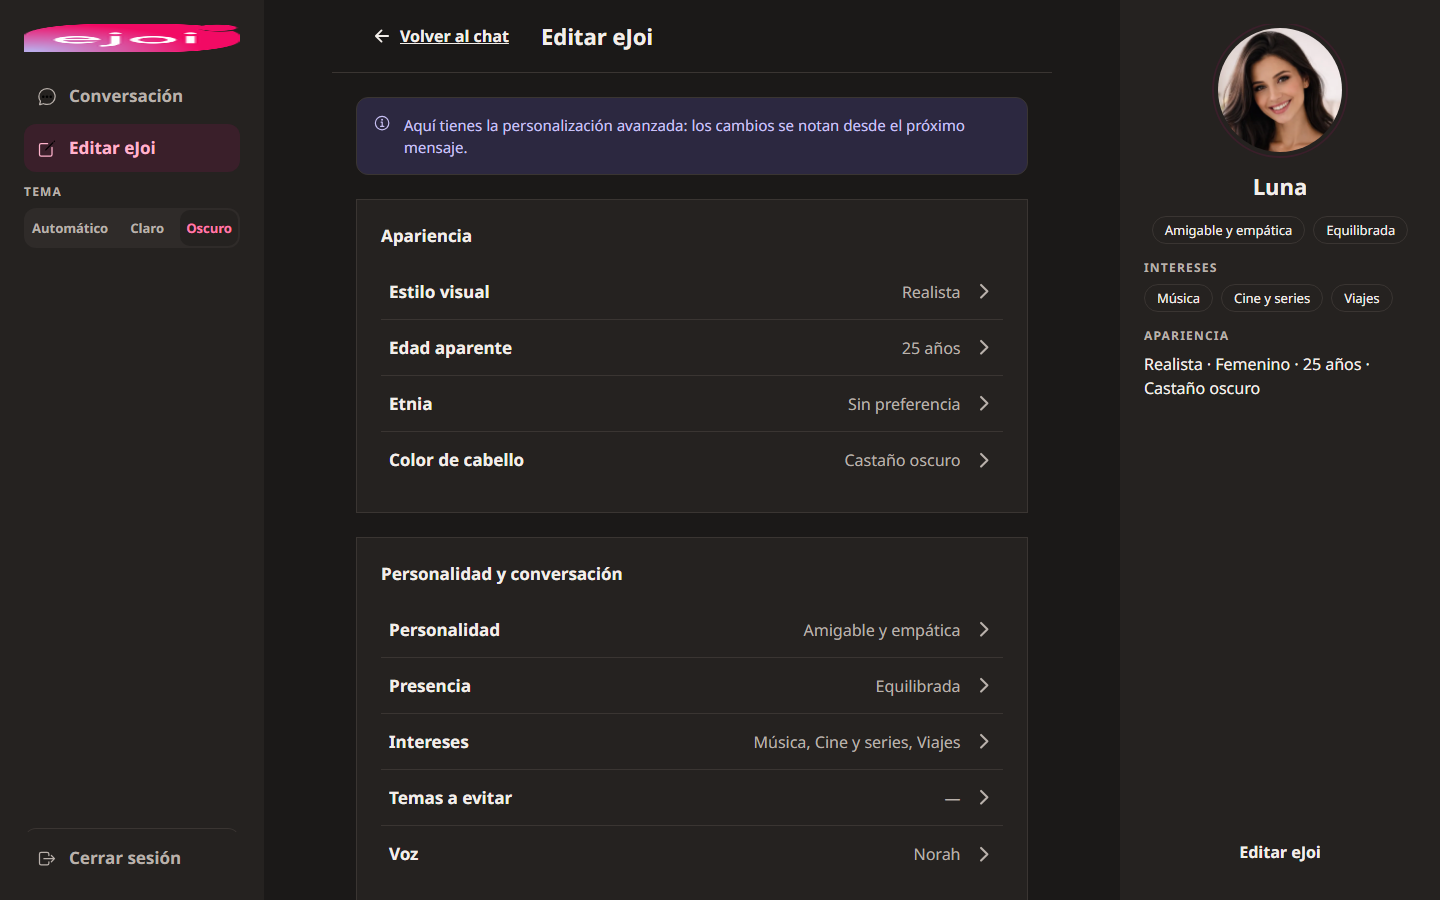
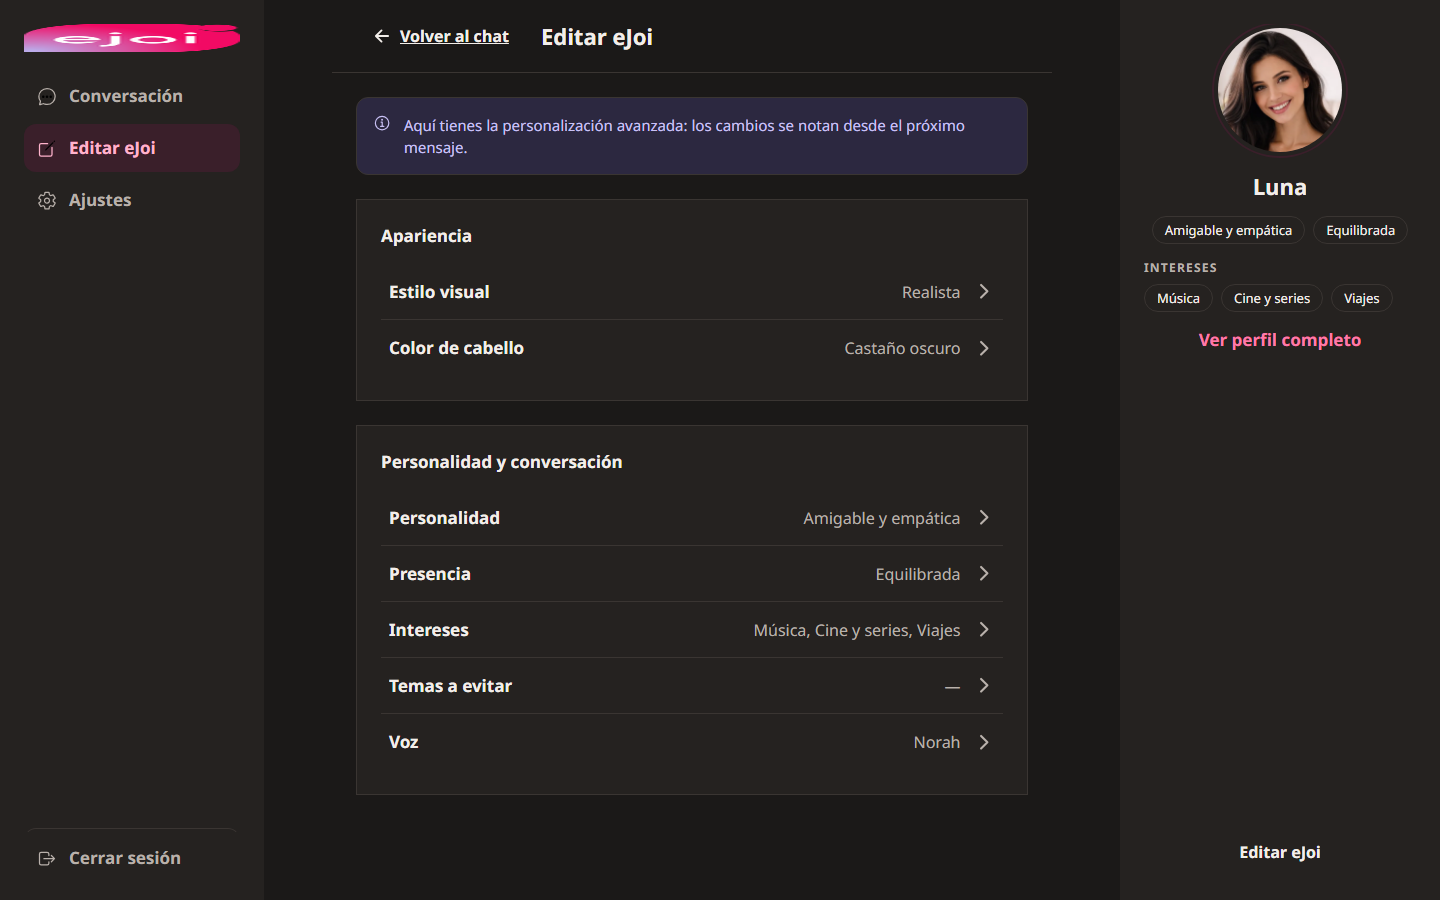
test(web): galeria y e2e del flujo inicio, acceso y 4 pasos (SCRUM-177)
Galeria 60 PNG (10 pantallas x 2 temas x 3 anchos), sha256 sin duplicados; eliminadas vista-2/vista-3. Chromium 96/96; holgura 1px scroll paso-1. demo-timing desde Inicio. README seccion Flujo.

Refs: SCRUM-104

diff --git a/docs/screens/index.html b/docs/screens/index.html
@@ -16,24 +16,42 @@
   <table>
     <thead><tr><th>Pantalla</th><th>Tema</th><th>Ancho</th><th>Vista previa</th></tr></thead>
     <tbody>
+<tr><td>inicio</td><td>claro</td><td>1440</td><td><a href="inicio-claro-1440.png"><img src="inicio-claro-1440.png" alt="inicio-claro-1440.png" width="320" loading="lazy" /></a></td></tr>
+<tr><td>inicio</td><td>claro</td><td>1280</td><td><a href="inicio-claro-1280.png"><img src="inicio-claro-1280.png" alt="inicio-claro-1280.png" width="320" loading="lazy" /></a></td></tr>
+<tr><td>inicio</td><td>claro</td><td>1024</td><td><a href="inicio-claro-1024.png"><img src="inicio-claro-1024.png" alt="inicio-claro-1024.png" width="320" loading="lazy" /></a></td></tr>
+<tr><td>inicio</td><td>oscuro</td><td>1440</td><td><a href="inicio-oscuro-1440.png"><img src="inicio-oscuro-1440.png" alt="inicio-oscuro-1440.png" width="320" loading="lazy" /></a></td></tr>
+<tr><td>inicio</td><td>oscuro</td><td>1280</td><td><a href="inicio-oscuro-1280.png"><img src="inicio-oscuro-1280.png" alt="inicio-oscuro-1280.png" width="320" loading="lazy" /></a></td></tr>
+<tr><td>inicio</td><td>oscuro</td><td>1024</td><td><a href="inicio-oscuro-1024.png"><img src="inicio-oscuro-1024.png" alt="inicio-oscuro-1024.png" width="320" loading="lazy" /></a></td></tr>
 <tr><td>acceso</td><td>claro</td><td>1440</td><td><a href="acceso-claro-1440.png"><img src="acceso-claro-1440.png" alt="acceso-claro-1440.png" width="320" loading="lazy" /></a></td></tr>
 <tr><td>acceso</td><td>claro</td><td>1280</td><td><a href="acceso-claro-1280.png"><img src="acceso-claro-1280.png" alt="acceso-claro-1280.png" width="320" loading="lazy" /></a></td></tr>
 <tr><td>acceso</td><td>claro</td><td>1024</td><td><a href="acceso-claro-1024.png"><img src="acceso-claro-1024.png" alt="acceso-claro-1024.png" width="320" loading="lazy" /></a></td></tr>
 <tr><td>acceso</td><td>oscuro</td><td>1440</td><td><a href="acceso-oscuro-1440.png"><img src="acceso-oscuro-1440.png" alt="acceso-oscuro-1440.png" width="320" loading="lazy" /></a></td></tr>
 <tr><td>acceso</td><td>oscuro</td><td>1280</td><td><a href="acceso-oscuro-1280.png"><img src="acceso-oscuro-1280.png" alt="acceso-oscuro-1280.png" width="320" loading="lazy" /></a></td></tr>
 <tr><td>acceso</td><td>oscuro</td><td>1024</td><td><a href="acceso-oscuro-1024.png"><img src="acceso-oscuro-1024.png" alt="acceso-oscuro-1024.png" width="320" loading="lazy" /></a></td></tr>
-<tr><td>vista-2</td><td>claro</td><td>1440</td><td><a href="vista-2-claro-1440.png"><img src="vista-2-claro-1440.png" alt="vista-2-claro-1440.png" width="320" loading="lazy" /></a></td></tr>
-<tr><td>vista-2</td><td>claro</td><td>1280</td><td><a href="vista-2-claro-1280.png"><img src="vista-2-claro-1280.png" alt="vista-2-claro-1280.png" width="320" loading="lazy" /></a></td></tr>
-<tr><td>vista-2</td><td>claro</td><td>1024</td><td><a href="vista-2-claro-1024.png"><img src="vista-2-claro-1024.png" alt="vista-2-claro-1024.png" width="320" loading="lazy" /></a></td></tr>
-<tr><td>vista-2</td><td>oscuro</td><td>1440</td><td><a href="vista-2-oscuro-1440.png"><img src="vista-2-oscuro-1440.png" alt="vista-2-oscuro-1440.png" width="320" loading="lazy" /></a></td></tr>
-<tr><td>vista-2</td><td>oscuro</td><td>1280</td><td><a href="vista-2-oscuro-1280.png"><img src="vista-2-oscuro-1280.png" alt="vista-2-oscuro-1280.png" width="320" loading="lazy" /></a></td></tr>
-<tr><td>vista-2</td><td>oscuro</td><td>1024</td><td><a href="vista-2-oscuro-1024.png"><img src="vista-2-oscuro-1024.png" alt="vista-2-oscuro-1024.png" width="320" loading="lazy" /></a></td></tr>
-<tr><td>vista-3</td><td>claro</td><td>1440</td><td><a href="vista-3-claro-1440.png"><img src="vista-3-claro-1440.png" alt="vista-3-claro-1440.png" width="320" loading="lazy" /></a></td></tr>
-<tr><td>vista-3</td><td>claro</td><td>1280</td><td><a href="vista-3-claro-1280.png"><img src="vista-3-claro-1280.png" alt="vista-3-claro-1280.png" width="320" loading="lazy" /></a></td></tr>
-<tr><td>vista-3</td><td>claro</td><td>1024</td><td><a href="vista-3-claro-1024.png"><img src="vista-3-claro-1024.png" alt="vista-3-claro-1024.png" width="320" loading="lazy" /></a></td></tr>
-<tr><td>vista-3</td><td>oscuro</td><td>1440</td><td><a href="vista-3-oscuro-1440.png"><img src="vista-3-oscuro-1440.png" alt="vista-3-oscuro-1440.png" width="320" loading="lazy" /></a></td></tr>
-<tr><td>vista-3</td><td>oscuro</td><td>1280</td><td><a href="vista-3-oscuro-1280.png"><img src="vista-3-oscuro-1280.png" alt="vista-3-oscuro-1280.png" width="320" loading="lazy" /></a></td></tr>
-<tr><td>vista-3</td><td>oscuro</td><td>1024</td><td><a href="vista-3-oscuro-1024.png"><img src="vista-3-oscuro-1024.png" alt="vista-3-oscuro-1024.png" width="320" loading="lazy" /></a></td></tr>
+<tr><td>paso-1</td><td>claro</td><td>1440</td><td><a href="paso-1-claro-1440.png"><img src="paso-1-claro-1440.png" alt="paso-1-claro-1440.png" width="320" loading="lazy" /></a></td></tr>
+<tr><td>paso-1</td><td>claro</td><td>1280</td><td><a href="paso-1-claro-1280.png"><img src="paso-1-claro-1280.png" alt="paso-1-claro-1280.png" width="320" loading="lazy" /></a></td></tr>
+<tr><td>paso-1</td><td>claro</td><td>1024</td><td><a href="paso-1-claro-1024.png"><img src="paso-1-claro-1024.png" alt="paso-1-claro-1024.png" width="320" loading="lazy" /></a></td></tr>
+<tr><td>paso-1</td><td>oscuro</td><td>1440</td><td><a href="paso-1-oscuro-1440.png"><img src="paso-1-oscuro-1440.png" alt="paso-1-oscuro-1440.png" width="320" loading="lazy" /></a></td></tr>
+<tr><td>paso-1</td><td>oscuro</td><td>1280</td><td><a href="paso-1-oscuro-1280.png"><img src="paso-1-oscuro-1280.png" alt="paso-1-oscuro-1280.png" width="320" loading="lazy" /></a></td></tr>
+<tr><td>paso-1</td><td>oscuro</td><td>1024</td><td><a href="paso-1-oscuro-1024.png"><img src="paso-1-oscuro-1024.png" alt="paso-1-oscuro-1024.png" width="320" loading="lazy" /></a></td></tr>
+<tr><td>paso-2</td><td>claro</td><td>1440</td><td><a href="paso-2-claro-1440.png"><img src="paso-2-claro-1440.png" alt="paso-2-claro-1440.png" width="320" loading="lazy" /></a></td></tr>
+<tr><td>paso-2</td><td>claro</td><td>1280</td><td><a href="paso-2-claro-1280.png"><img src="paso-2-claro-1280.png" alt="paso-2-claro-1280.png" width="320" loading="lazy" /></a></td></tr>
+<tr><td>paso-2</td><td>claro</td><td>1024</td><td><a href="paso-2-claro-1024.png"><img src="paso-2-claro-1024.png" alt="paso-2-claro-1024.png" width="320" loading="lazy" /></a></td></tr>
+<tr><td>paso-2</td><td>oscuro</td><td>1440</td><td><a href="paso-2-oscuro-1440.png"><img src="paso-2-oscuro-1440.png" alt="paso-2-oscuro-1440.png" width="320" loading="lazy" /></a></td></tr>
+<tr><td>paso-2</td><td>oscuro</td><td>1280</td><td><a href="paso-2-oscuro-1280.png"><img src="paso-2-oscuro-1280.png" alt="paso-2-oscuro-1280.png" width="320" loading="lazy" /></a></td></tr>
+<tr><td>paso-2</td><td>oscuro</td><td>1024</td><td><a href="paso-2-oscuro-1024.png"><img src="paso-2-oscuro-1024.png" alt="paso-2-oscuro-1024.png" width="320" loading="lazy" /></a></td></tr>
+<tr><td>paso-3</td><td>claro</td><td>1440</td><td><a href="paso-3-claro-1440.png"><img src="paso-3-claro-1440.png" alt="paso-3-claro-1440.png" width="320" loading="lazy" /></a></td></tr>
+<tr><td>paso-3</td><td>claro</td><td>1280</td><td><a href="paso-3-claro-1280.png"><img src="paso-3-claro-1280.png" alt="paso-3-claro-1280.png" width="320" loading="lazy" /></a></td></tr>
+<tr><td>paso-3</td><td>claro</td><td>1024</td><td><a href="paso-3-claro-1024.png"><img src="paso-3-claro-1024.png" alt="paso-3-claro-1024.png" width="320" loading="lazy" /></a></td></tr>
+<tr><td>paso-3</td><td>oscuro</td><td>1440</td><td><a href="paso-3-oscuro-1440.png"><img src="paso-3-oscuro-1440.png" alt="paso-3-oscuro-1440.png" width="320" loading="lazy" /></a></td></tr>
+<tr><td>paso-3</td><td>oscuro</td><td>1280</td><td><a href="paso-3-oscuro-1280.png"><img src="paso-3-oscuro-1280.png" alt="paso-3-oscuro-1280.png" width="320" loading="lazy" /></a></td></tr>
+<tr><td>paso-3</td><td>oscuro</td><td>1024</td><td><a href="paso-3-oscuro-1024.png"><img src="paso-3-oscuro-1024.png" alt="paso-3-oscuro-1024.png" width="320" loading="lazy" /></a></td></tr>
+<tr><td>paso-4</td><td>claro</td><td>1440</td><td><a href="paso-4-claro-1440.png"><img src="paso-4-claro-1440.png" alt="paso-4-claro-1440.png" width="320" loading="lazy" /></a></td></tr>
+<tr><td>paso-4</td><td>claro</td><td>1280</td><td><a href="paso-4-claro-1280.png"><img src="paso-4-claro-1280.png" alt="paso-4-claro-1280.png" width="320" loading="lazy" /></a></td></tr>
+<tr><td>paso-4</td><td>claro</td><td>1024</td><td><a href="paso-4-claro-1024.png"><img src="paso-4-claro-1024.png" alt="paso-4-claro-1024.png" width="320" loading="lazy" /></a></td></tr>
+<tr><td>paso-4</td><td>oscuro</td><td>1440</td><td><a href="paso-4-oscuro-1440.png"><img src="paso-4-oscuro-1440.png" alt="paso-4-oscuro-1440.png" width="320" loading="lazy" /></a></td></tr>
+<tr><td>paso-4</td><td>oscuro</td><td>1280</td><td><a href="paso-4-oscuro-1280.png"><img src="paso-4-oscuro-1280.png" alt="paso-4-oscuro-1280.png" width="320" loading="lazy" /></a></td></tr>
+<tr><td>paso-4</td><td>oscuro</td><td>1024</td><td><a href="paso-4-oscuro-1024.png"><img src="paso-4-oscuro-1024.png" alt="paso-4-oscuro-1024.png" width="320" loading="lazy" /></a></td></tr>
 <tr><td>chat-creando</td><td>claro</td><td>1440</td><td><a href="chat-creando-claro-1440.png"><img src="chat-creando-claro-1440.png" alt="chat-creando-claro-1440.png" width="320" loading="lazy" /></a></td></tr>
 <tr><td>chat-creando</td><td>claro</td><td>1280</td><td><a href="chat-creando-claro-1280.png"><img src="chat-creando-claro-1280.png" alt="chat-creando-claro-1280.png" width="320" loading="lazy" /></a></td></tr>
 <tr><td>chat-creando</td><td>claro</td><td>1024</td><td><a href="chat-creando-claro-1024.png"><img src="chat-creando-claro-1024.png" alt="chat-creando-claro-1024.png" width="320" loading="lazy" /></a></td></tr>

diff --git a/e2e/create-wizard.spec.ts b/e2e/create-wizard.spec.ts
@@ -117,7 +117,8 @@ test.describe('Asistente único 4 pasos SCRUM-174', () => {
         await page.getByTestId('wizard-step-panel').waitFor({ state: 'visible' });
         await page.waitForTimeout(280);
         const scrollHeight = await page.evaluate(() => document.documentElement.scrollHeight);
-        expect(scrollHeight).toBeLessThanOrEqual(900);
+        // ponytail: 1px de holgura por subpíxeles / animación de paso
+        expect(scrollHeight).toBeLessThanOrEqual(901);
         const main = page.locator('#main-content');
         const mainScroll = await main.evaluate((el) => ({
           scrollHeight: el.scrollHeight,

diff --git a/README.md b/README.md
@@ -15,6 +15,7 @@ Cliente web de escritorio de eJoi. Usa el mismo backend que la app móvil (`eJoi
 | `npm run build:demo` | Build modo demo (`VITE_MOCK_API=true`) en `dist-demo/` |
 | `npm run preview` | Vista previa del build |
 | `npm run shots` | Capturas Playwright 1440/1280/1024 × claro/oscuro (requiere `build:demo`) |
+| `node scripts/demo-timing.mjs` | Cronómetro demo Inicio → primer mensaje (requiere `build:demo`) |
 | `npm run typecheck` | Solo TypeScript |
 | `npm run lint` | ESLint |
 | `npm run test` | Vitest (una pasada) |
@@ -54,7 +55,7 @@ Para capturas locales sin backend:
 
 ```powershell
 npm run build:demo
-npm run shots -- vista-2 chat-listo
+npm run shots -- paso-1 chat-listo
 # salida: docs/screens/<pantalla>-<claro|oscuro>-<ancho>.png
 ```
 
@@ -62,7 +63,7 @@ La hoja de componentes base vive en `src/theme/ui.css` (tokens en `src/theme/css
 
 ## Revisión visual
 
-Regenerar las 42 capturas de referencia (7 pantallas × claro/oscuro × 1440/1280/1024):
+Regenerar las 60 capturas de referencia (10 pantallas × claro/oscuro × 1440/1280/1024):
 
 ```powershell
 cd C:\ejoi\EjoiWeb
@@ -91,6 +92,31 @@ npm run dev
 npm run build
 npm run preview
 ```
+
+## Flujo (Épica 11 / SCRUM-104)
+
+Sin sesión, la web presenta el valor en **`/`** antes de pedir cuenta. La creación es un asistente único de **4 pasos** (mismo orden que el móvil v2); etnia y edad quedan en **Editar → Apariencia** con flags apagadas por defecto.
+
+```mermaid
+flowchart LR
+  H["/ Inicio"] --> A["/acceso"]
+  A --> P1["/crear/paso-1"]
+  P1 --> P2["/crear/paso-2"]
+  P2 --> P3["/crear/paso-3"]
+  P3 --> P4["/crear/paso-4"]
+  P4 --> C["/chat"]
+  C --> E["/chat/editar"]
+```
+
+| Pantalla | Ruta | Notas |
+| --- | --- | --- |
+| Inicio | `/` | Hero + ejemplo de conversación; CTAs a acceso |
+| Acceso | `/acceso` | Tarjeta centrada; demo en mock |
+| Pasos 1–4 | `/crear/paso-N` | Una pregunta principal por pantalla |
+| Chat | `/chat` | Perfil resumido; tema en Ajustes |
+| Editar | `/chat/editar` | Apariencia (etnia/edad si flags activas) |
+
+Galería revisable: `docs/screens/index.html` (`npm run build:demo` + `npm run shots`). Medición técnica para SCRUM-116: `node scripts/demo-timing.mjs` (desde **Crear mi eJoi** en `/` hasta el primer mensaje visible).
 
 ## QA e2e (SCRUM-116)
 
